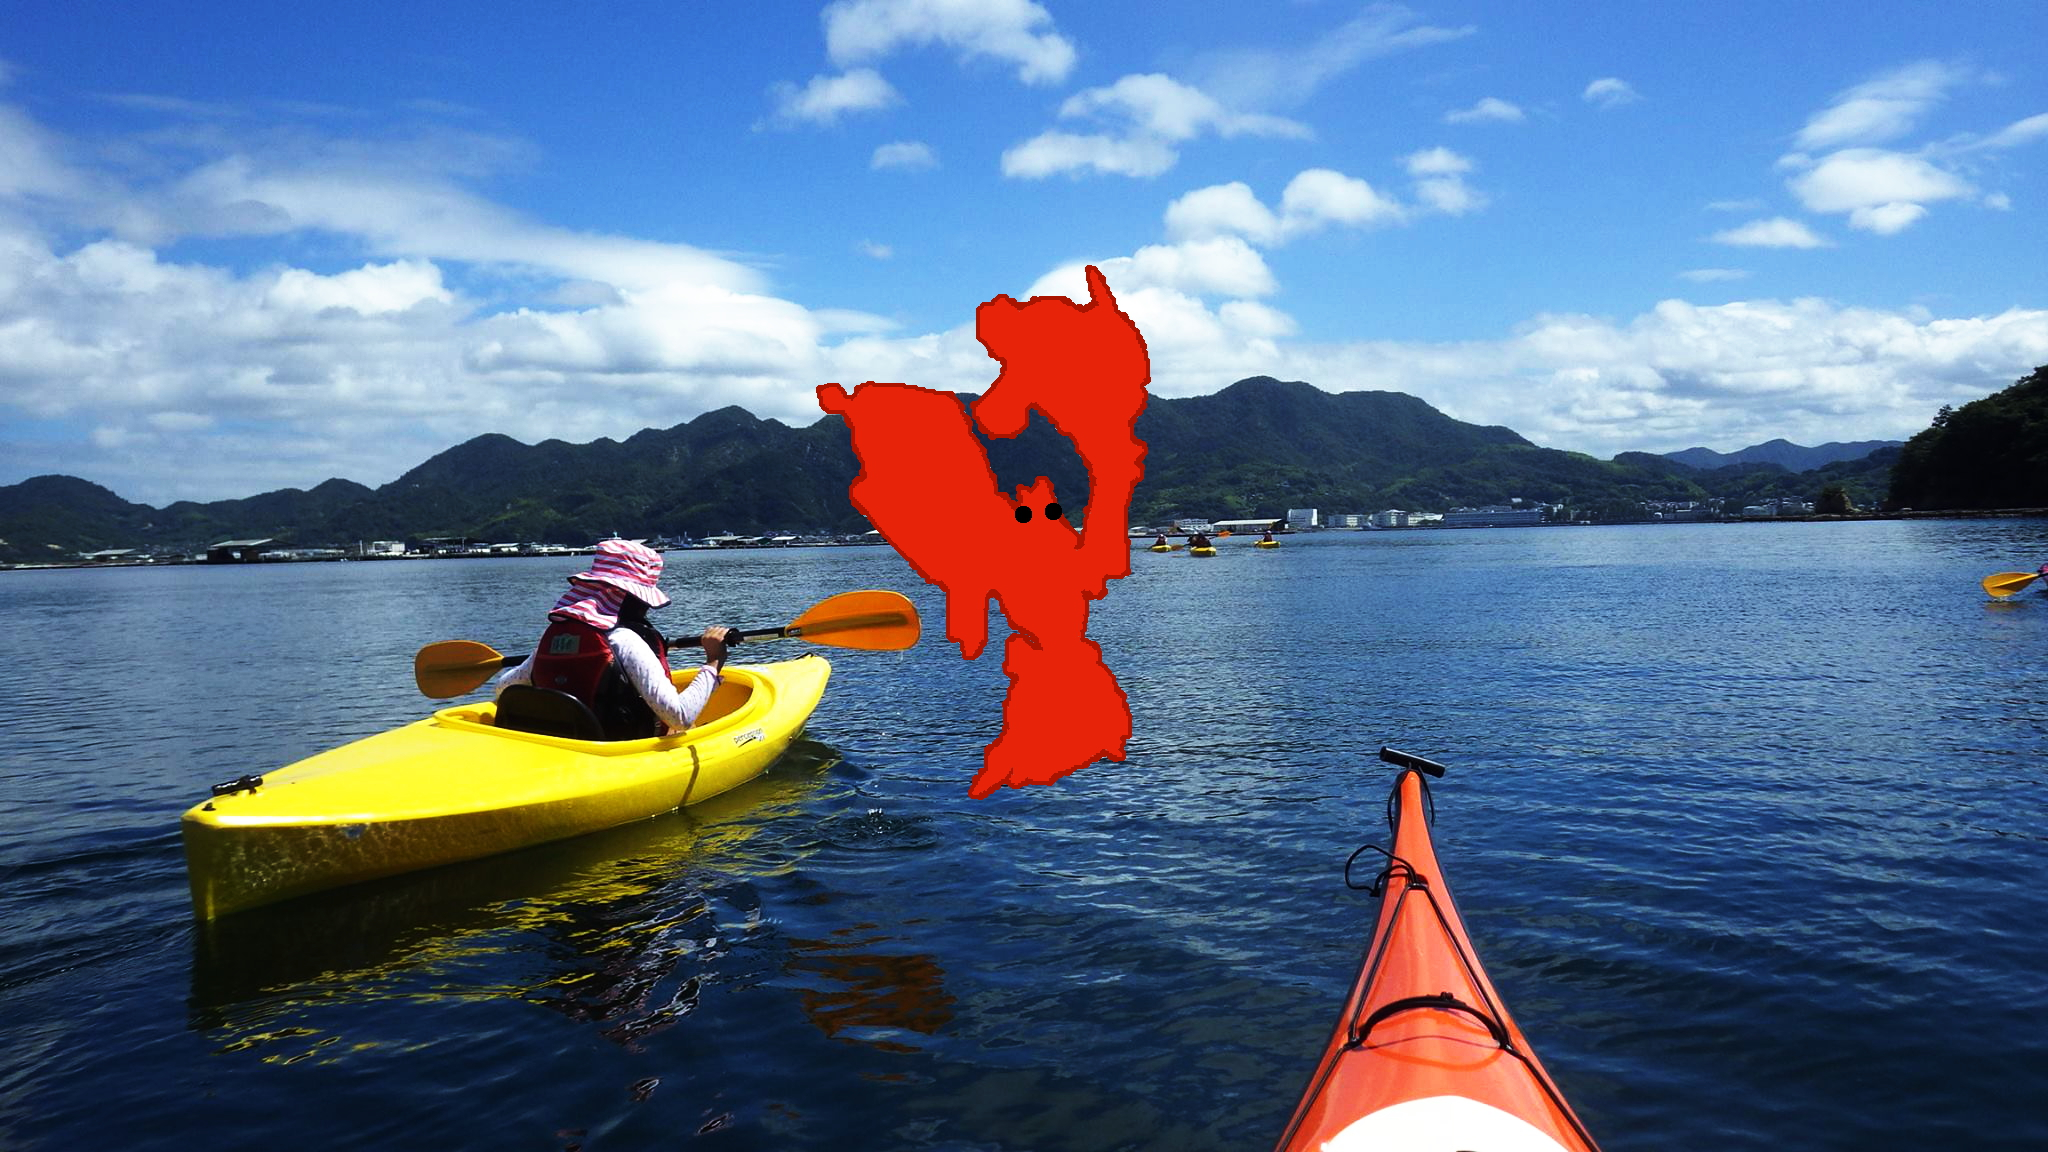
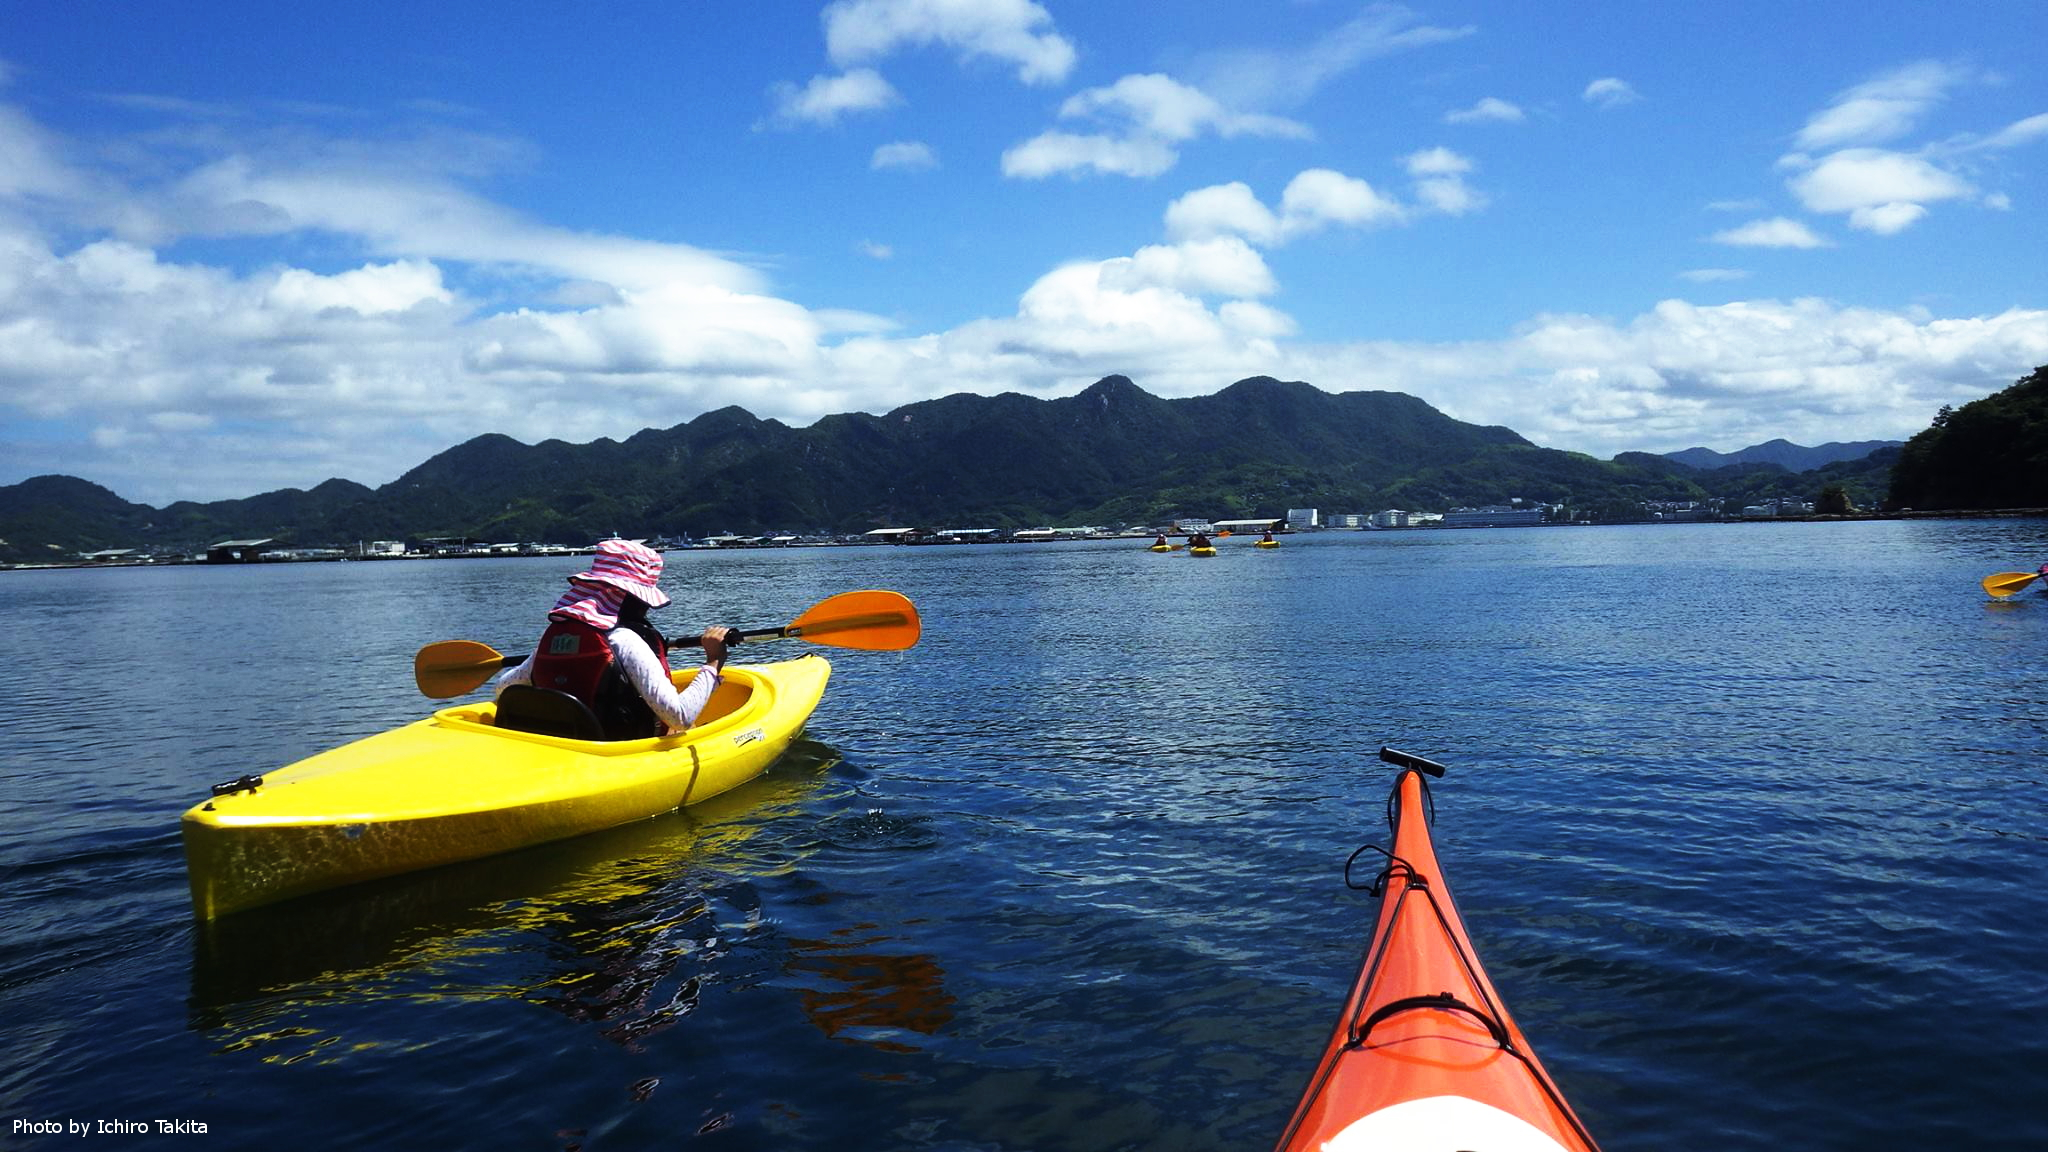
top画面改修＋ザリガニ３

Changed region(s): [[0.4062, 0.2188, 0.5625, 0.6875], [0.0, 0.9688, 0.0938, 1.0]]

diff --git a/app/assets/stylesheets/top.scss b/app/assets/stylesheets/top.scss
@@ -1,6 +1,7 @@
 .main-picture {
-  height: 1000px;
-  background-size: cover;
+  width: 100%;
+  height: 2000px;
+  // background-size: cover;
   background: url('top-image.jpg') no-repeat;
 }
 .header {
@@ -13,6 +14,8 @@
   font-size: 60px;
   color: #FFFFFF;
   margin: 0;
+  background: image-url('zarigani.png') no-repeat;
+  background-size: contain;
 }
 .content {
   height: 200px;
@@ -21,4 +24,24 @@
 
 .navbar {
   margin-bottom: 0;
+}
+
+h1:after {
+  display: inline-block;
+  width: 100px;
+  height: 100px;
+  background: image-url('zarigani.png') 0 0 no-repeat transparent;
+  position: absolute;
+  content: '';
+  background-size: contain;
+}
+
+h1:before {
+  display: inline-block;
+  width: 100px;
+  height: 100px;
+  background: image-url('zarigani.png') 0 0 no-repeat transparent;
+  background-size: contain;
+  position: absolute;
+  content: '';
 }
